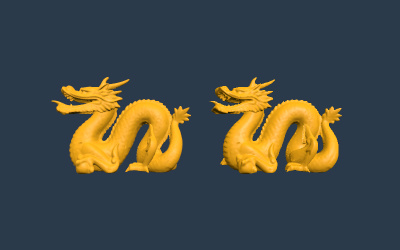
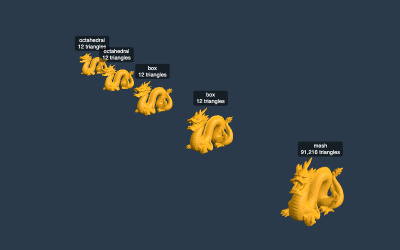
Examples: Show impostors as LOD levels in webgpu_impostors.

Changed region(s): [[0.12, 0.14, 0.87, 0.924]]

diff --git a/examples/webgpu_impostors.html b/examples/webgpu_impostors.html
@@ -9,6 +9,16 @@
 		<meta property="og:url" content="https://threejs.org/examples/webgpu_impostors.html">
 		<meta property="og:image" content="https://threejs.org/examples/screenshots/webgpu_impostors.jpg">
 		<link type="text/css" rel="stylesheet" href="example.css">
+		<style>
+			.label {
+				color: #fff;
+				font: 11px sans-serif;
+				padding: 2px 6px;
+				text-align: center;
+				border-radius: 4px;
+				background: rgba( 0, 0, 0, 0.5 );
+			}
+		</style>
 	</head>
 	<body>
 
@@ -20,7 +30,7 @@
 			</div>
 
 			<small>
-				<a href="https://github.com/richardmonette/three-impostor" target="_blank" rel="noopener">three-impostor</a>. Left: the mesh, 91,216 triangles. Right: its impostor, 12 triangles.
+				<a href="https://github.com/richardmonette/three-impostor" target="_blank" rel="noopener">three-impostor</a>. Each dragon is a LOD: the mesh up close, then a box impostor, then an octahedral impostor.
 			</small>
 		</div>
 
@@ -44,16 +54,20 @@
 
 			import { OrbitControls } from 'three/addons/controls/OrbitControls.js';
 			import { GLTFLoader } from 'three/addons/loaders/GLTFLoader.js';
+			import { CSS2DRenderer, CSS2DObject } from 'three/addons/renderers/CSS2DRenderer.js';
 			import { ImpostorBaker, ImpostorNodeMaterial } from 'three-impostor';
 
-			let camera, scene, renderer, controls;
+			let camera, scene, renderer, labelRenderer, controls;
+
+			const levels = [];
+			const dragons = [];
 
 			init();
 
 			async function init() {
 
-				camera = new THREE.PerspectiveCamera( 40, window.innerWidth / window.innerHeight, 0.1, 100 );
-				camera.position.set( 0, 1.5, 9 );
+				camera = new THREE.PerspectiveCamera( 40, window.innerWidth / window.innerHeight, 0.1, 200 );
+				camera.position.set( - 11, 9, 8 );
 
 				scene = new THREE.Scene();
 				scene.background = new THREE.Color( 0x2b3a4a );
@@ -70,8 +84,15 @@
 				renderer.inspector = new Inspector();
 				document.body.appendChild( renderer.domElement );
 
+				labelRenderer = new CSS2DRenderer();
+				labelRenderer.setSize( window.innerWidth, window.innerHeight );
+				labelRenderer.domElement.style.position = 'absolute';
+				labelRenderer.domElement.style.top = '0px';
+				labelRenderer.domElement.style.pointerEvents = 'none';
+				document.body.appendChild( labelRenderer.domElement );
+
 				controls = new OrbitControls( camera, renderer.domElement );
-				controls.target.set( 0, 1.2, 0 );
+				controls.target.set( 1.5, 0, - 11.5 );
 				controls.update();
 
 				window.addEventListener( 'resize', onWindowResize );
@@ -82,27 +103,27 @@
 
 				const dragon = gltf.scene.getObjectByName( 'Dragon' );
 				dragon.material = new THREE.MeshStandardNodeMaterial( { color: 0xeba310, roughness: 0.5 } );
-				dragon.position.set( - 2, 0, 0 );
-				scene.add( dragon );
 
-				// impostor
+				const bounds = new THREE.Box3().setFromBufferAttribute( dragon.geometry.attributes.position );
+				bounds.applyMatrix4( new THREE.Matrix4().compose( new THREE.Vector3(), dragon.quaternion, dragon.scale ) );
+				const top = bounds.getCenter( new THREE.Vector3() ).setY( bounds.max.y + 0.2 );
+
+				// impostors, baked once and shared by every dragon
 
 				const baker = new ImpostorBaker( renderer );
 
-				const params = { layout: 'box', boxResolution: 256, octahedralResolution: 256, frames: 12, view: 'near', wireframe: false };
+				const params = { boxResolution: 256, octahedralResolution: 256, frames: 12, lod: true, wireframe: false };
 
-				const impostor = new THREE.Mesh();
-				impostor.quaternion.copy( dragon.quaternion );
-				impostor.scale.copy( dragon.scale );
-				impostor.position.set( 2, 0, 0 );
+				levels.push(
+					{ name: 'mesh', mesh: dragon, distance: 0 },
+					{ name: 'box', mesh: new THREE.Mesh(), distance: 18.5 },
+					{ name: 'octahedral', mesh: new THREE.Mesh(), distance: 31 }
+				);
 
-				async function bake() {
-
-					const options = params.layout === 'box'
-						? { resolution: params.boxResolution }
-						: { layout: 'octahedral', resolution: params.octahedralResolution, frames: params.frames };
+				async function bake( index, options ) {
 
 					const data = await baker.bake( dragon, options );
+					const impostor = levels[ index ].mesh;
 
 					if ( impostor.material.impostor ) {
 
@@ -114,40 +135,74 @@
 					impostor.geometry = data.geometry;
 					impostor.material = new ImpostorNodeMaterial( data, { roughness: 0.5 } );
 
+					for ( const { lod } of dragons ) {
+
+						lod.levels[ index ].object.geometry = impostor.geometry;
+						lod.levels[ index ].object.material = impostor.material;
+
+					}
+
 				}
 
-				await bake();
+				const bakeBox = () => bake( 1, { resolution: params.boxResolution } );
+				const bakeOctahedral = () => bake( 2, { layout: 'octahedral', resolution: params.octahedralResolution, frames: params.frames } );
 
-				scene.add( impostor );
+				await bakeBox();
+				await bakeOctahedral();
 
-				const wireframe = new THREE.LineSegments( new THREE.WireframeGeometry( impostor.geometry ), new THREE.LineBasicNodeMaterial() );
-				wireframe.visible = false;
-				impostor.add( wireframe );
+				// a row of dragons, each switching level with its distance to the camera
+
+				for ( let i = 0; i < 5; i ++ ) {
+
+					const lod = new THREE.LOD();
+					lod.position.set( 0, 0, - i * 8 );
+					lod.quaternion.copy( dragon.quaternion );
+					lod.scale.copy( dragon.scale );
+
+					for ( const { mesh, distance } of levels ) {
+
+						const object = new THREE.Mesh( mesh.geometry, mesh.material );
+						lod.addLevel( object, distance, 0.05 );
+
+						if ( mesh === dragon ) continue;
+
+						const wireframe = new THREE.LineSegments( new THREE.WireframeGeometry( mesh.geometry ), new THREE.LineBasicNodeMaterial() );
+						wireframe.visible = false;
+						object.add( wireframe );
+
+					}
+
+					scene.add( lod );
+
+					const element = document.createElement( 'div' );
+					element.className = 'label';
+
+					const label = new CSS2DObject( element );
+					label.center.set( 0.5, 1 );
+					label.position.copy( lod.position ).add( top );
+					scene.add( label );
+
+					dragons.push( { lod, element, level: - 1 } );
+
+				}
 
 				// gui
 
 				const gui = renderer.inspector.createParameters( 'Settings' );
 
-				gui.add( params, 'layout', [ 'box', 'octahedral' ] ).onChange( ( value ) => {
+				gui.add( params, 'boxResolution', [ 128, 256, 512 ] ).name( 'box resolution' ).onChange( bakeBox );
+				gui.add( params, 'octahedralResolution', [ 64, 128, 256 ] ).name( 'octahedral resolution' ).onChange( bakeOctahedral );
+				gui.add( params, 'frames', [ 8, 12, 16 ] ).name( 'octahedral frames' ).onChange( bakeOctahedral );
 
-					const box = value === 'box';
+				gui.add( params, 'lod' ).name( 'LOD' ).onChange( ( value ) => {
 
-					box ? boxResolution.show() : boxResolution.hide();
-					box ? octahedralResolution.hide() : octahedralResolution.show();
-					box ? frames.hide() : frames.show();
+					for ( const { lod } of dragons ) {
 
-					bake();
+						lod.autoUpdate = value;
 
-				} );
+						if ( value === false ) lod.levels.forEach( ( level, i ) => level.object.visible = i === 0 );
 
-				const boxResolution = gui.add( params, 'boxResolution', [ 128, 256, 512 ] ).name( 'resolution' ).onChange( bake );
-				const octahedralResolution = gui.add( params, 'octahedralResolution', [ 64, 128, 256 ] ).name( 'resolution' ).onChange( bake ).hide();
-				const frames = gui.add( params, 'frames', [ 8, 12, 16 ] ).onChange( bake ).hide();
-
-				gui.add( params, 'view', [ 'near', 'far' ] ).onChange( ( value ) => {
-
-					camera.position.sub( controls.target ).setLength( value === 'near' ? 9 : 30 ).add( controls.target );
-					controls.update();
+					}
 
 				} );
 
@@ -155,7 +210,12 @@
 
 					dragon.material.wireframe = value;
 					dragon.material.needsUpdate = true;
-					wireframe.visible = value;
+
+					for ( const { lod } of dragons ) {
+
+						for ( const level of lod.levels.slice( 1 ) ) level.object.children[ 0 ].visible = value;
+
+					}
 
 				} );
 
@@ -167,12 +227,33 @@
 				camera.updateProjectionMatrix();
 
 				renderer.setSize( window.innerWidth, window.innerHeight );
+				labelRenderer.setSize( window.innerWidth, window.innerHeight );
 
 			}
 
 			function render() {
 
 				renderer.render( scene, camera );
+
+				// label each dragon with the level it is showing
+
+				for ( const dragon of dragons ) {
+
+					const level = dragon.lod.levels.findIndex( ( level ) => level.object.visible );
+
+					if ( level !== dragon.level ) {
+
+						const { name, mesh } = levels[ level ];
+						const triangles = mesh.geometry.index ? mesh.geometry.index.count / 3 : mesh.geometry.attributes.position.count / 3;
+
+						dragon.level = level;
+						dragon.element.innerHTML = `${ name }<br>${ triangles.toLocaleString( 'en-US' ) } triangles`;
+
+					}
+
+				}
+
+				labelRenderer.render( scene, camera );
 
 			}
 
